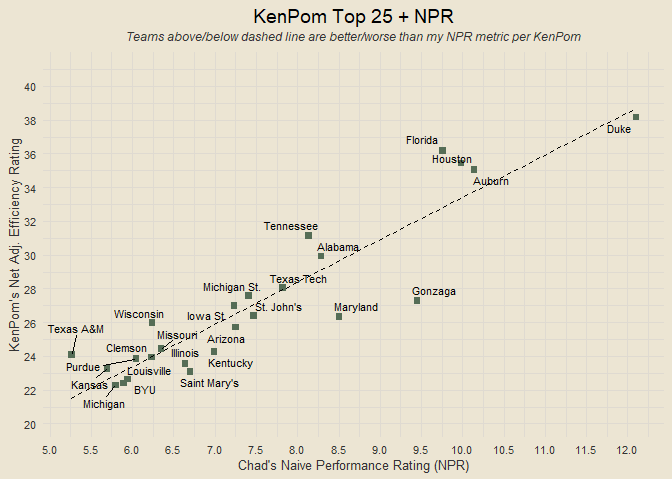
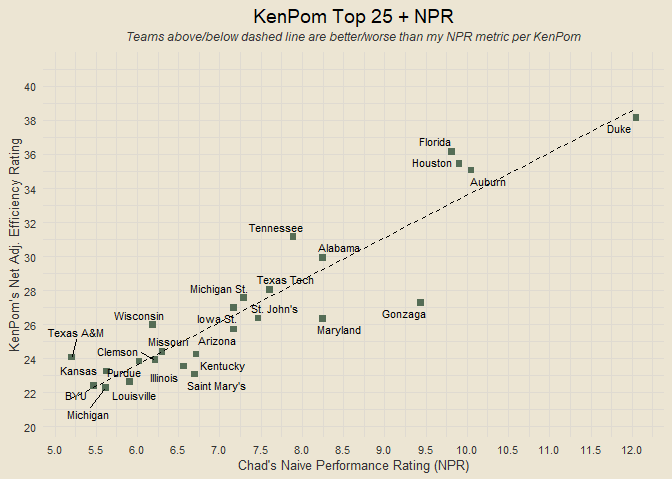
new commit F4

diff --git a/README.md b/README.md
@@ -171,7 +171,7 @@ sprintf("%s game results retrieved successfully", nrow(game_results))
 
 </details>
 
-    ## [1] "5722 game results retrieved successfully"
+    ## [1] "5742 game results retrieved successfully"
 
 ------------------------------------------------------------------------
 
@@ -291,14 +291,14 @@ team_npr |>
 ```
 
     ##             team ovr_npr npr_rank
-    ## 1 North Carolina   5.213       33
-    ## 2      Boise St.   4.676       42
-    ## 3       Ohio St.   4.589       45
-    ## 4         Xavier   4.504       47
-    ## 5          Texas   4.033       55
-    ## 6  West Virginia   3.750       60
-    ## 7  San Diego St.   3.621       63
-    ## 8        Indiana   3.499       67
+    ## 1 North Carolina   5.180       33
+    ## 2      Boise St.   4.676       41
+    ## 3       Ohio St.   4.537       46
+    ## 4         Xavier   4.495       48
+    ## 5          Texas   3.983       55
+    ## 6  West Virginia   3.685       60
+    ## 7  San Diego St.   3.616       62
+    ## 8        Indiana   3.465       68
 
 ------------------------------------------------------------------------
 
@@ -334,7 +334,7 @@ sprintf("Modeling data: %s games, %s variables", nrow(modeling_results), ncol(mo
 
 </details>
 
-    ## [1] "Modeling data: 5722 games, 20 variables"
+    ## [1] "Modeling data: 5742 games, 20 variables"
 
 ------------------------------------------------------------------------
 
@@ -392,7 +392,7 @@ sprintf("Random forest accuracy: %s%%", accuracy)
 
 </details>
 
-    ## [1] "Random forest accuracy: 71.29%"
+    ## [1] "Random forest accuracy: 72.78%"
 
 <details>
 <summary>
@@ -409,7 +409,7 @@ sprintf("Random forest F1: %s%%", f1_score)
 
 </details>
 
-    ## [1] "Random forest F1: 77.78%"
+    ## [1] "Random forest F1: 79.2%"
 
 ------------------------------------------------------------------------
 
@@ -457,48 +457,16 @@ neutral_predict = function(home_team, away_team) {
 
 ------------------------------------------------------------------------
 
-### Predicting Sweet 16 and Beyond
-
-    ## [1] "Sweet 16"
-
-    ## [1] "Auburn def. Michigan (64.5%)"
-
-    ## [1] "Mississippi def. Michigan St. (53%)"
-
-    ## [1] "Florida def. Maryland (53.5%)"
-
-    ## [1] "Texas Tech def. Arkansas (55.9%)"
-
-    ## [1] "Duke def. Arizona (53.8%)"
-
-    ## [1] "Alabama def. BYU (57.8%)"
-
-    ## [1] "Houston def. Purdue (62.8%)"
-
-    ## [1] "Kentucky def. Tennessee (54.4%)"
-
-    ## [1] "------------------------------------------------------------"
-
-    ## [1] "Elite 8"
-
-    ## [1] "Auburn def. Mississippi (72%)"
-
-    ## [1] "Florida def. Texas Tech (54.6%)"
-
-    ## [1] "Alabama def. Duke (51.6%)"
-
-    ## [1] "Houston def. Kentucky (52.1%)"
-
-    ## [1] "----------------------------------"
+### Predicting Final Four and National Championship
 
     ## [1] "Final Four"
 
-    ## [1] "Auburn def. Florida (51.9%)"
+    ## [1] "Auburn def. Florida (55.8%)"
 
-    ## [1] "Alabama def. Houston (52.7%)"
+    ## [1] "Houston def. Duke (51.2%)"
 
     ## [1] "----------------------------------------"
 
     ## [1] "National Championship"
 
-    ## [1] "Auburn def. Alabama (57.1%)"
+    ## [1] "Auburn def. Houston (52.8%)"
